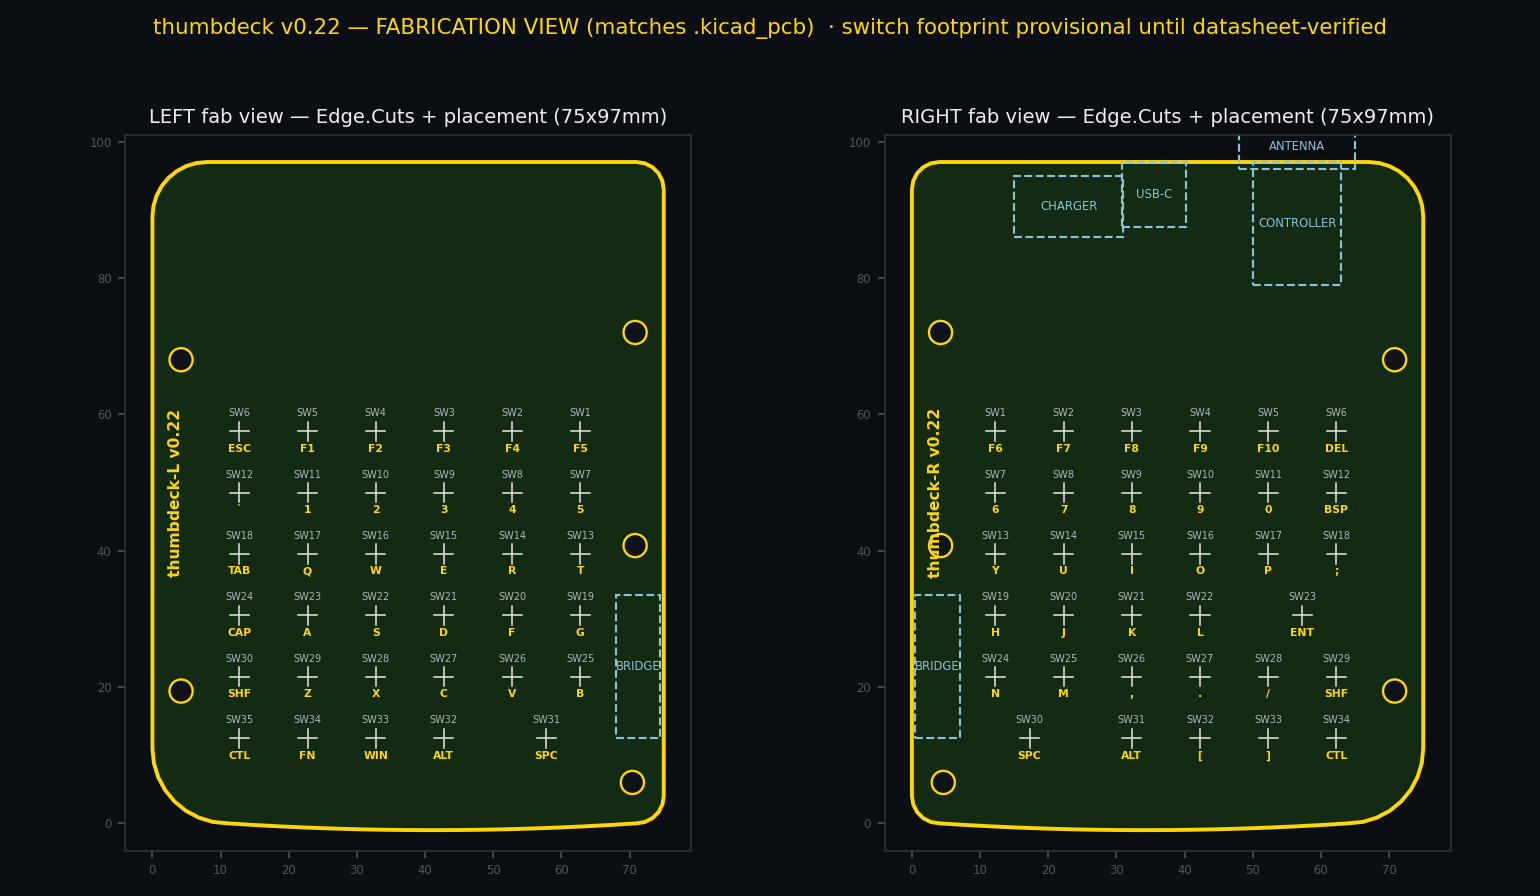
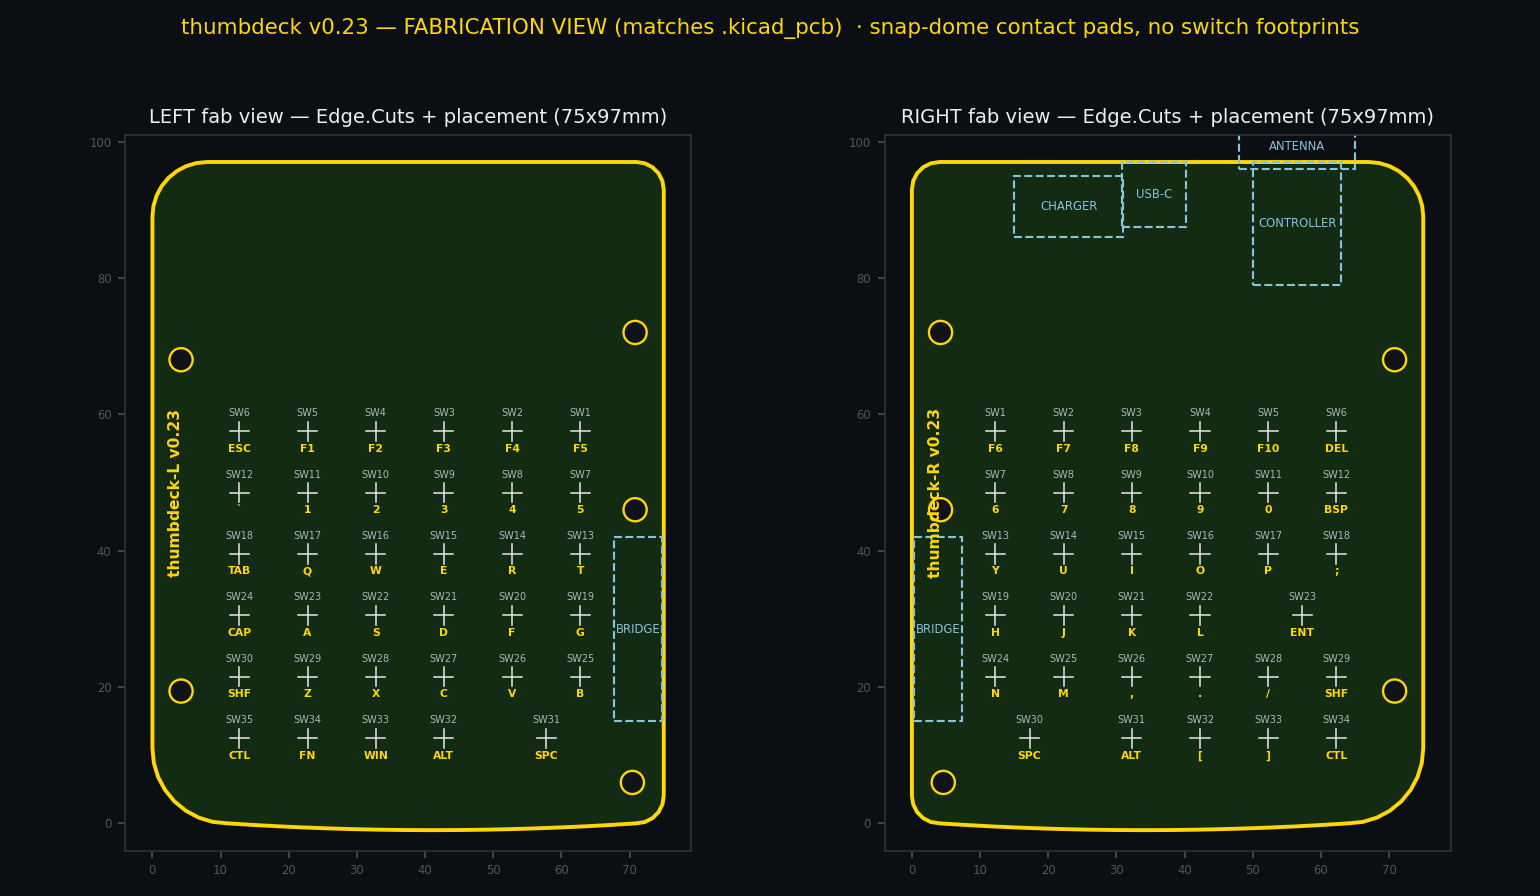
site: use the collapsed 3/4 hero shot as the social card
The OG card is now renders/collapsed.png rather than the auto-rendered
straight-on viewer capture, and og:image:width/height follow it to 862x445.

render-thumbnail.mjs now writes og-card-auto.png instead of og-card.png so
`npm run models` can't silently clobber the hand-picked card; promoting the
auto-rendered one is a deliberate copy plus a meta-tag update.

Also syncs the "A closer look" gallery, which was still serving its own stale
copies: the two matplotlib isometrics become the collapsed/exploded viewer
shots, fab_view is the regenerated one, and iter_22 becomes iter_23.

diff --git a/site/index.html b/site/index.html
@@ -20,8 +20,8 @@
       content="Turn your phone into a handheld deck: a wireless split thumb keyboard, screen flush in the middle, 78 metal snap-dome keys over Bluetooth. Spin and explode the interactive 3D model. Designed, not yet built."
     />
     <meta property="og:image" content="https://neuman.github.io/gripster/renders/og-card.png" />
-    <meta property="og:image:width" content="2400" />
-    <meta property="og:image:height" content="1260" />
+    <meta property="og:image:width" content="862" />
+    <meta property="og:image:height" content="445" />
     <meta
       property="og:image:alt"
       content="The Gripster deck: a phone seated landscape in a translucent Atomic-Purple thumb-keyboard shell, snap-dome keys either side."

diff --git a/site/src/main.ts b/site/src/main.ts
@@ -247,10 +247,10 @@ const gallery = el(
 )
 const grid = el('div', { class: 'render-grid' })
 for (const [src, cap] of [
-  ['./renders/assembly3d.png', 'Assembled deck'],
-  ['./renders/assembly3d_exploded.png', 'Exploded layers'],
+  ['./renders/collapsed.png', 'Assembled deck'],
+  ['./renders/exploded.png', 'Exploded layers'],
   ['./renders/fab_view.png', 'Fabrication view'],
-  ['./renders/iter_22.png', 'Generated layout'],
+  ['./renders/iter_23.png', 'Generated layout'],
 ] as const) {
   grid.append(
     el('figure', {}, el('img', { src, alt: cap, loading: 'lazy' }), el('figcaption', {}, cap)),
